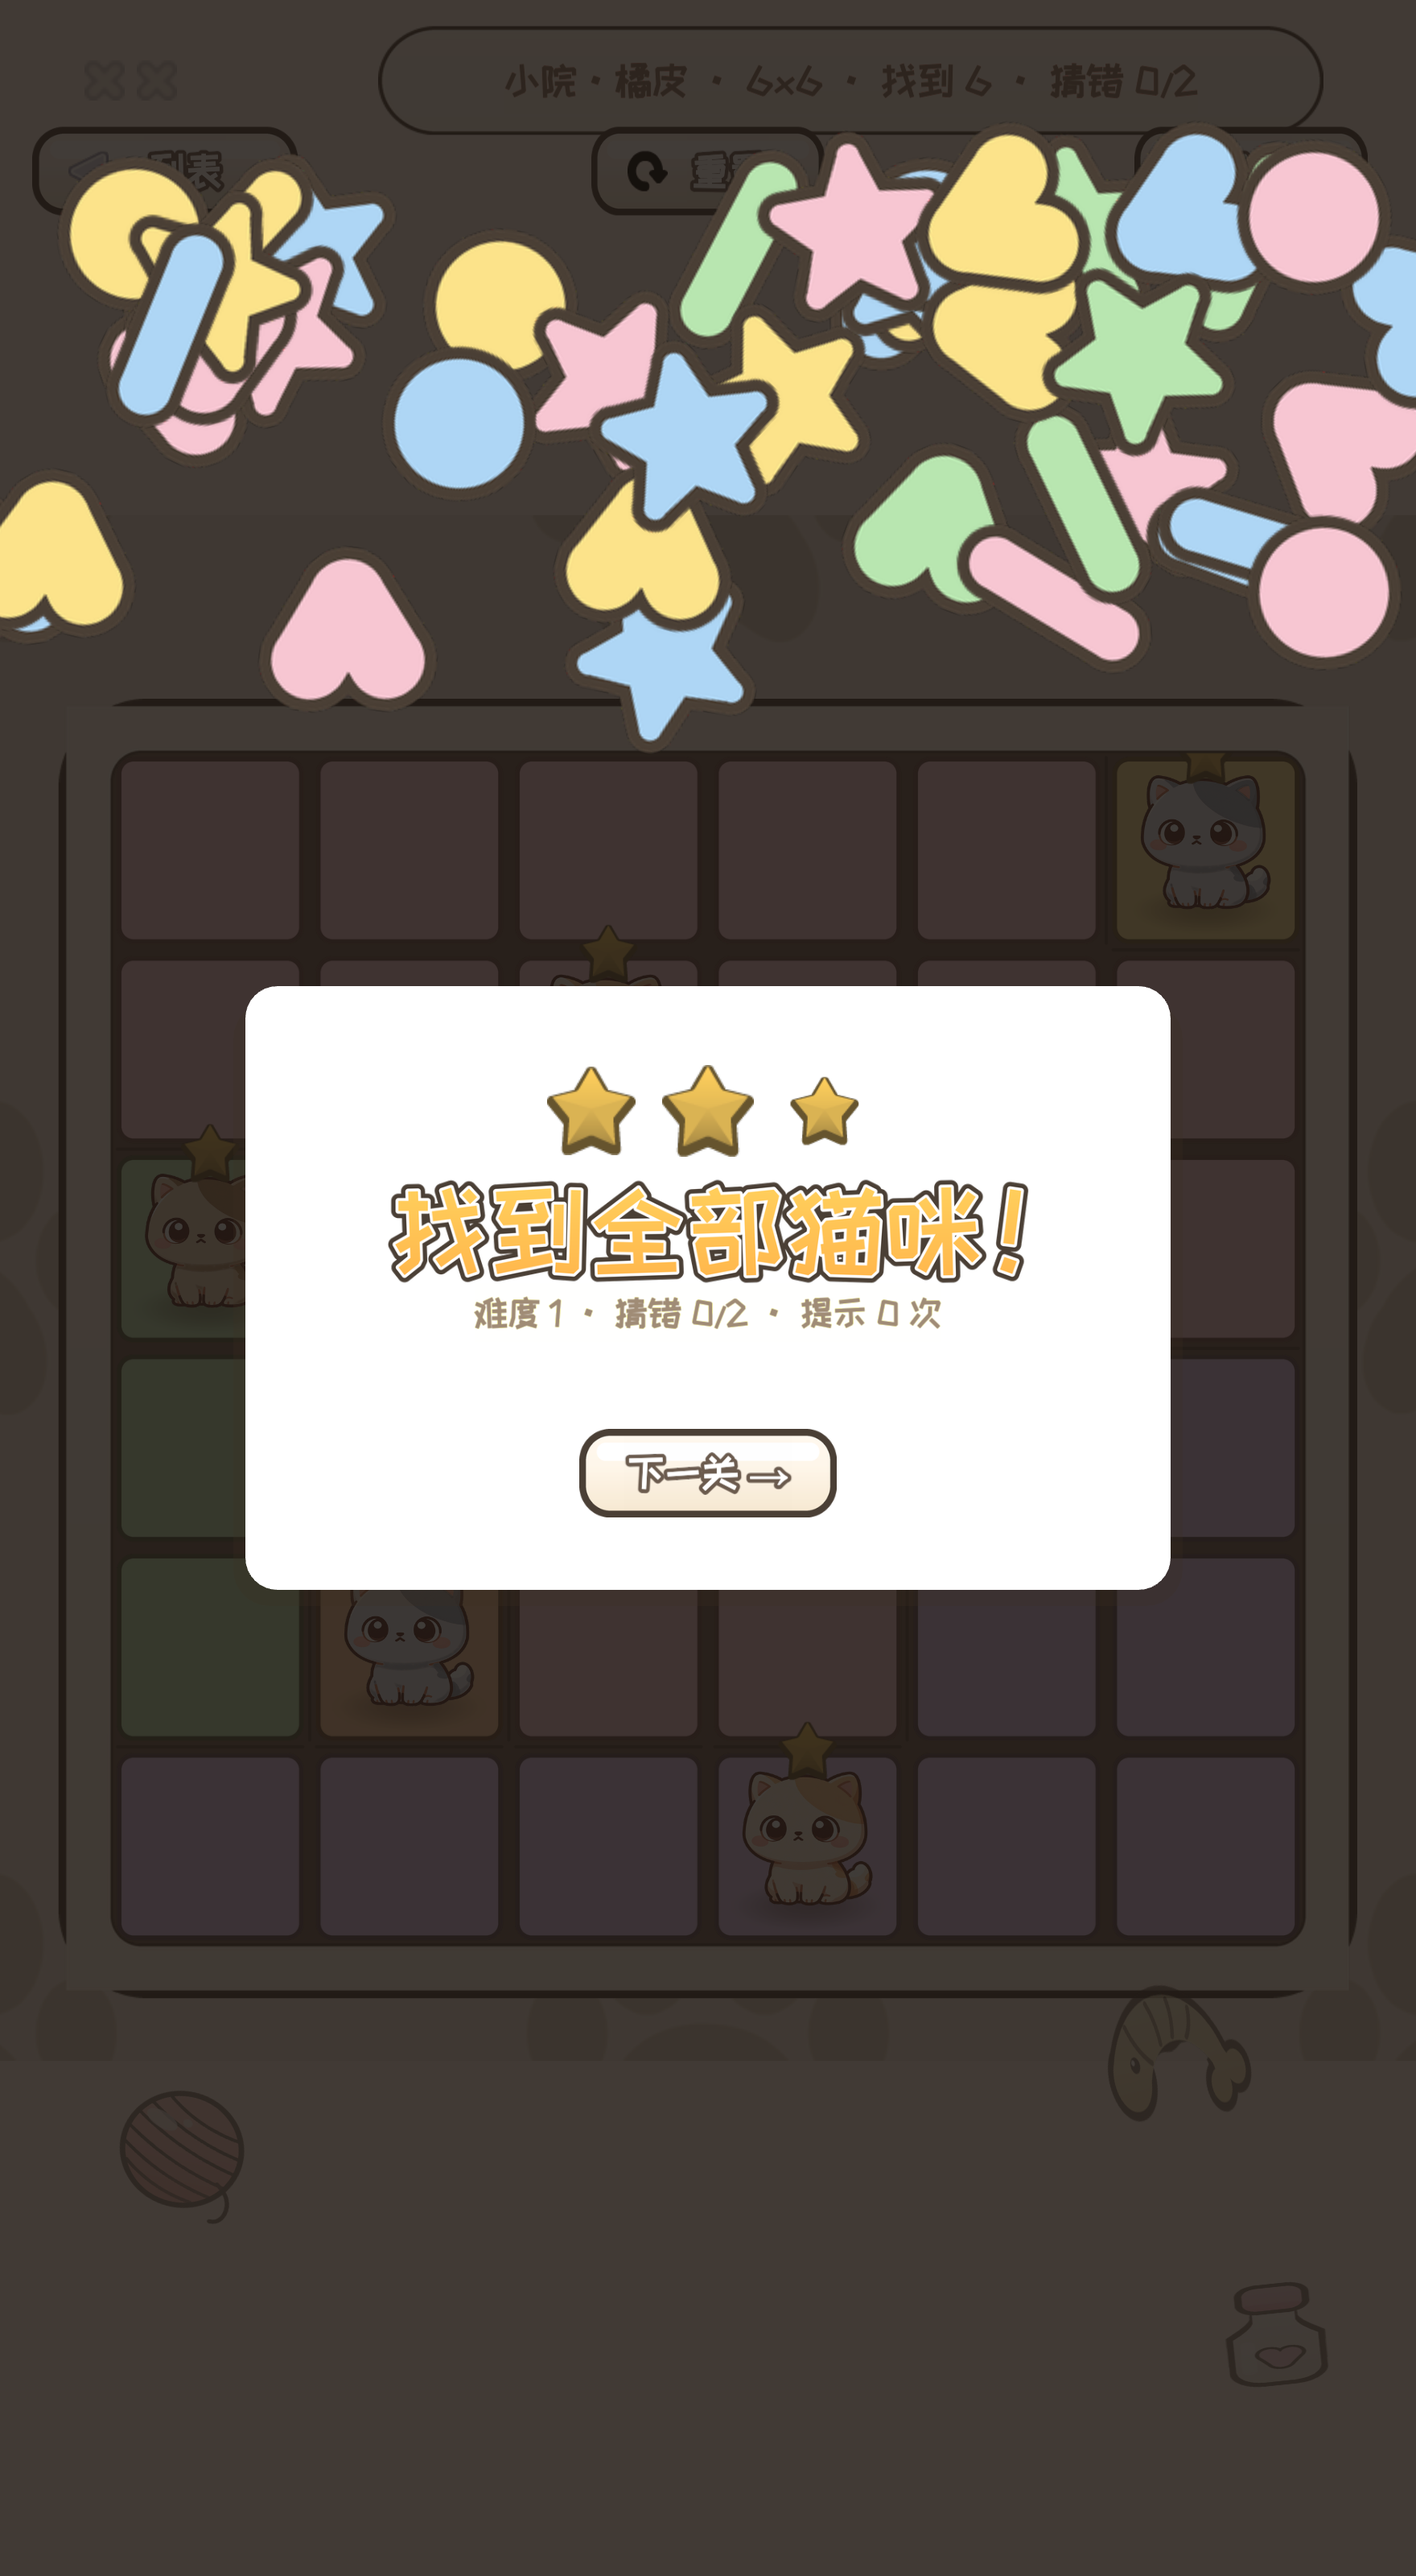
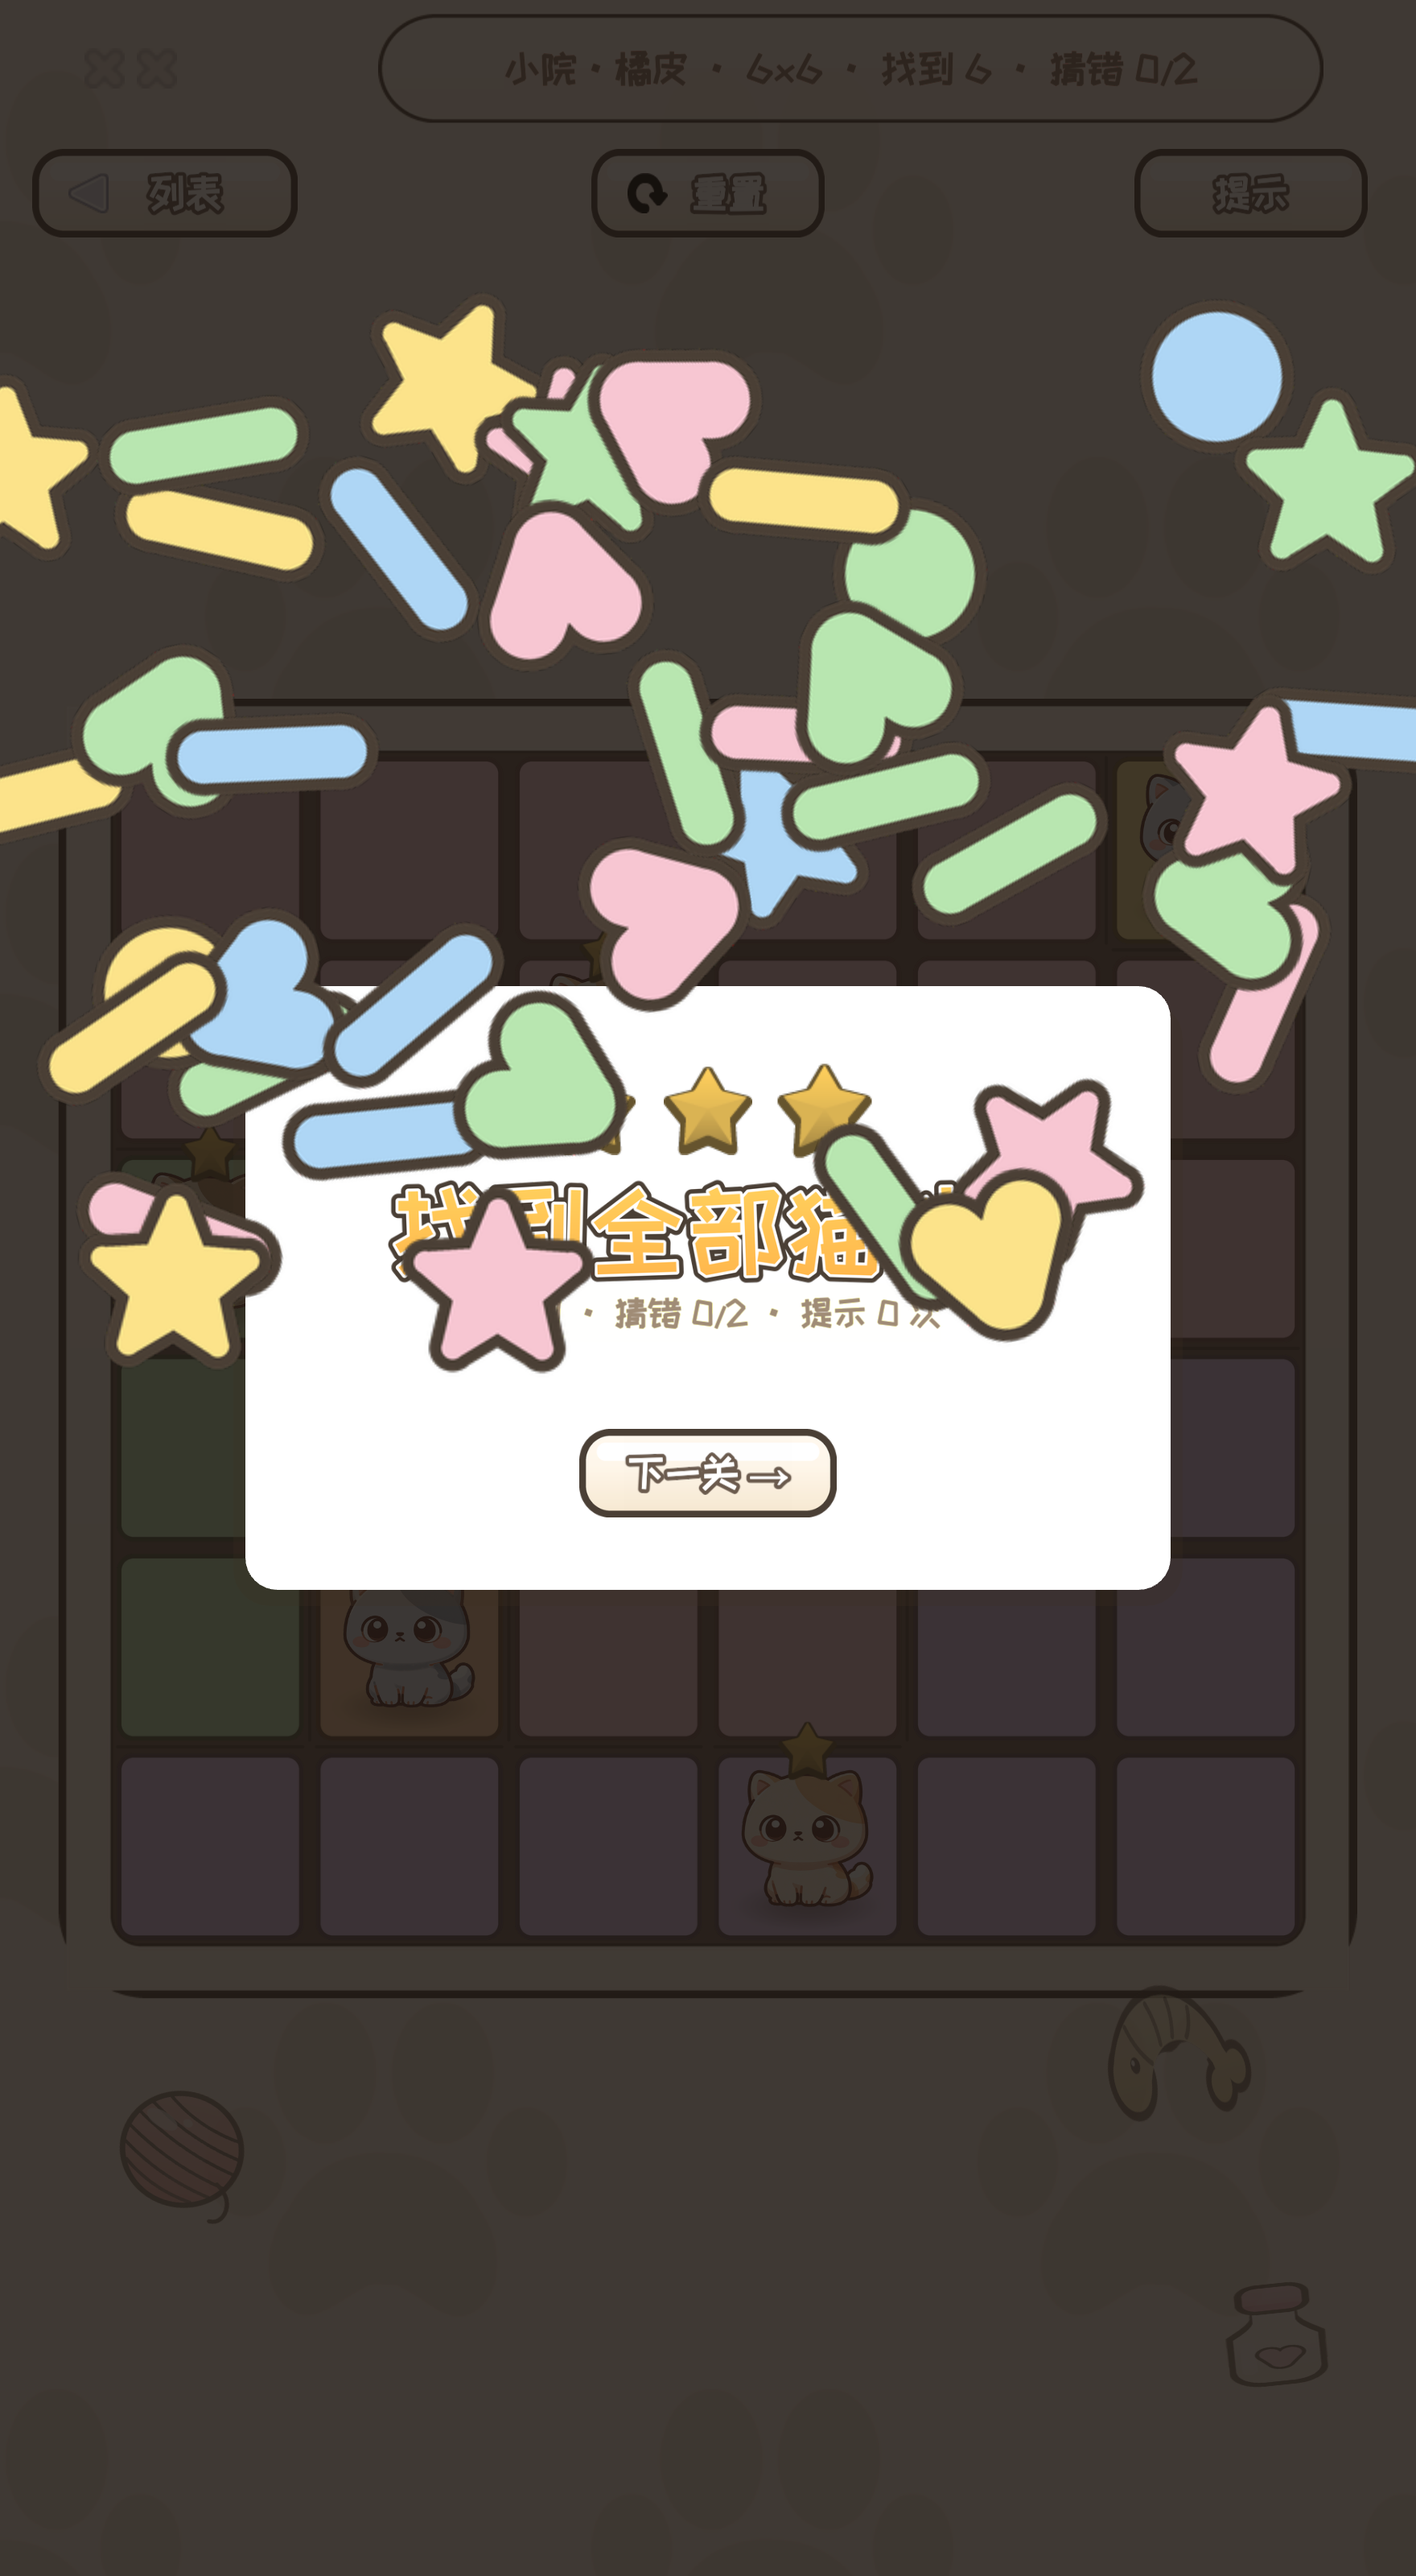
fix(cocos): 背景尺寸 TRIMMED 重置 bug（768² 补丁→全屏铺满）+ 按钮尺寸同源修复 + 爪印调淡 60%（grilling 定案：全屏爪印/60% 强度）

Changed region(s): [[0.0, 0.0312, 1.0, 0.5312]]

diff --git a/cocos/assets/scripts/boot.ts b/cocos/assets/scripts/boot.ts
@@ -224,9 +224,12 @@ export class Boot extends Component {
     const bg = this.uiNode('bg');
     bg.addComponent(UITransform).setContentSize(W, H);
     const sp = bg.addComponent(Sprite);
-    sp.spriteFrame = f;
     sp.type = Sprite.Type.TILED;
     sp.sizeMode = Sprite.SizeMode.CUSTOM;
+    sp.spriteFrame = f;
+    bg.getComponent(UITransform)!.setContentSize(W, H);   /* frame 会触发 TRIMMED 尺寸重置，尺寸必须在其后定 */
+    const bop = bg.addComponent(UIOpacity);
+    bop.opacity = 153;                                    /* 爪印调淡至 60%：氛围铺垫不抢卡片 */
     this.root.insertChild(bg, 0);
   }
 
@@ -255,7 +258,7 @@ export class Boot extends Component {
       const label = this.makeLabel('猫棋', 46, INK); label.node.setPosition(-16, 0, 0); titleRow.addChild(label.node);
     }
     const sub = this.makeLabel('每种颜色住一只猫 · 双击猜猫，猜错 2 次就输', 20, SUB);
-    sub.node.setPosition(0, H / 2 - 162, 0);
+    sub.node.setPosition(0, H / 2 - 150, 0);
     this.root.addChild(sub.node);
 
     /* 右上角：玩法 / 设置（贴图圆钮，无 emoji） */
@@ -269,11 +272,11 @@ export class Boot extends Component {
     /* 总进度（通关 X/100 · ★ Y/300）+ 继续按钮 */
     const total = LEVELS.length, won = this.wonCount(), stars = this.totalStars();
     const prog = this.makeLabel(`已通关 ${won}/${total} · ★ ${stars}/${total * 3}`, 18, SUB);
-    prog.node.setPosition(0, H / 2 - 202, 0);
+    prog.node.setPosition(0, H / 2 - 188, 0);
     this.root.addChild(prog.node);
     const next = this.firstUnfinished();
     if (next) {
-      const cont = this.makeButton(`继续 · 第 ${next.id} 关`, new Vec3(0, H / 2 - 250, 0), () => this.enterLevel(next.id), { accent: true, w: 220 });
+      const cont = this.makeButton(`继续 · 第 ${next.id} 关`, new Vec3(0, H / 2 - 236, 0), () => this.enterLevel(next.id), { accent: true, w: 220 });
       this.root.addChild(cont);
     }
 
@@ -419,16 +422,16 @@ export class Boot extends Component {
     /* 信息栏（胶囊底板，右移给双叉让位）+ 猜错双叉内嵌左端——重排后不再挤 */
     this.infoLabel = this.makeLabel('', 20, '#8a7560');
     const ibW = Math.min(W - 220, 470);
-    this.infoLabel.node.setPosition(W / 2 - 96 - ibW / 2 + 50, H / 2 - 40, 0);
+    this.infoLabel.node.setPosition(W / 2 - 96 - ibW / 2 + 50, H / 2 - 34, 0);
     const ib = this.makeSprite('infobar', ibW, 54);
-    if (ib) { ib.setPosition(W / 2 - 96 - ibW / 2 + 50, H / 2 - 40, 0); this.root.addChild(ib); }
+    if (ib) { ib.setPosition(W / 2 - 96 - ibW / 2 + 50, H / 2 - 34, 0); this.root.addChild(ib); }
     this.root.addChild(this.infoLabel.node);
     /* 猜错计数（两枚叉图标：淡=剩余机会，红=已用） */
     this.failIcons = [];
     for (let k = 0; k < 2; k++) {
       const ic = this.makeSprite('icon_cross', 20, 20);
       if (ic) {
-        ic.setPosition(-W / 2 + 52 + k * 26, H / 2 - 40, 0);
+        ic.setPosition(-W / 2 + 52 + k * 26, H / 2 - 34, 0);
         const sp = ic.getComponent(Sprite) as Sprite;
         sp.color = new Color(216, 205, 190, 255);
         const op = ic.addComponent(UIOpacity); op.opacity = 70;
@@ -438,9 +441,9 @@ export class Boot extends Component {
     }
 
     /* 工具栏（贴图按钮，滑入 stagger） */
-    const btnBack = this.makeButton('列表', new Vec3(-W / 2 + 82, H / 2 - 85, 0), () => this.showList(), { icon: 'icon_back', w: 132 });
-    const btnReset = this.makeButton('重置', new Vec3(0, H / 2 - 85, 0), () => { this.enterLevel(this.level.id); }, { icon: 'icon_reset', w: 116 });
-    const btnHint = this.makeButton('提示', new Vec3(W / 2 - 82, H / 2 - 85, 0), () => this.showHint(), { accent: true, w: 116 });
+    const btnBack = this.makeButton('列表', new Vec3(-W / 2 + 82, H / 2 - 96, 0), () => this.showList(), { icon: 'icon_back', w: 132 });
+    const btnReset = this.makeButton('重置', new Vec3(0, H / 2 - 96, 0), () => { this.enterLevel(this.level.id); }, { icon: 'icon_reset', w: 116 });
+    const btnHint = this.makeButton('提示', new Vec3(W / 2 - 82, H / 2 - 96, 0), () => this.showHint(), { accent: true, w: 116 });
     [btnBack, btnReset, btnHint].forEach((b, k) => {
       const y0 = b.position.y;
       b.setPosition(b.position.x, y0 + 46, 0);
@@ -1111,6 +1114,7 @@ export class Boot extends Component {
     if (normal) {
       sp.type = Sprite.Type.SIMPLE; sp.sizeMode = Sprite.SizeMode.CUSTOM;
       sp.spriteFrame = normal;
+      n.getComponent(UITransform)!.setContentSize(w, h);
     } else {
       const g = n.addComponent(Graphics);
       g.fillColor = opts.accent ? new Color(255, 157, 104, 255) : new Color(255, 255, 255, 255);
